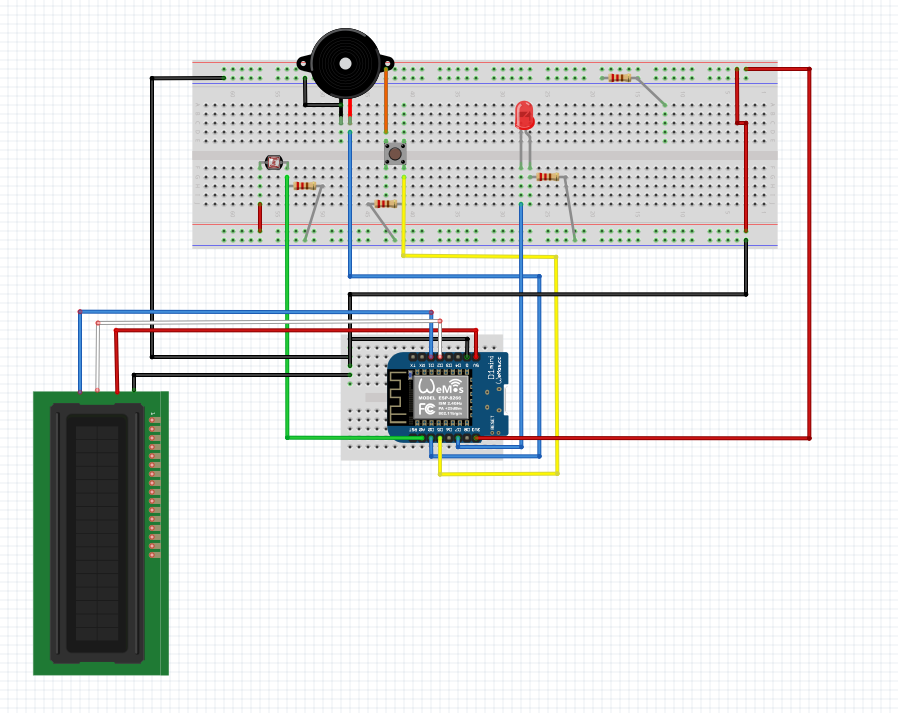
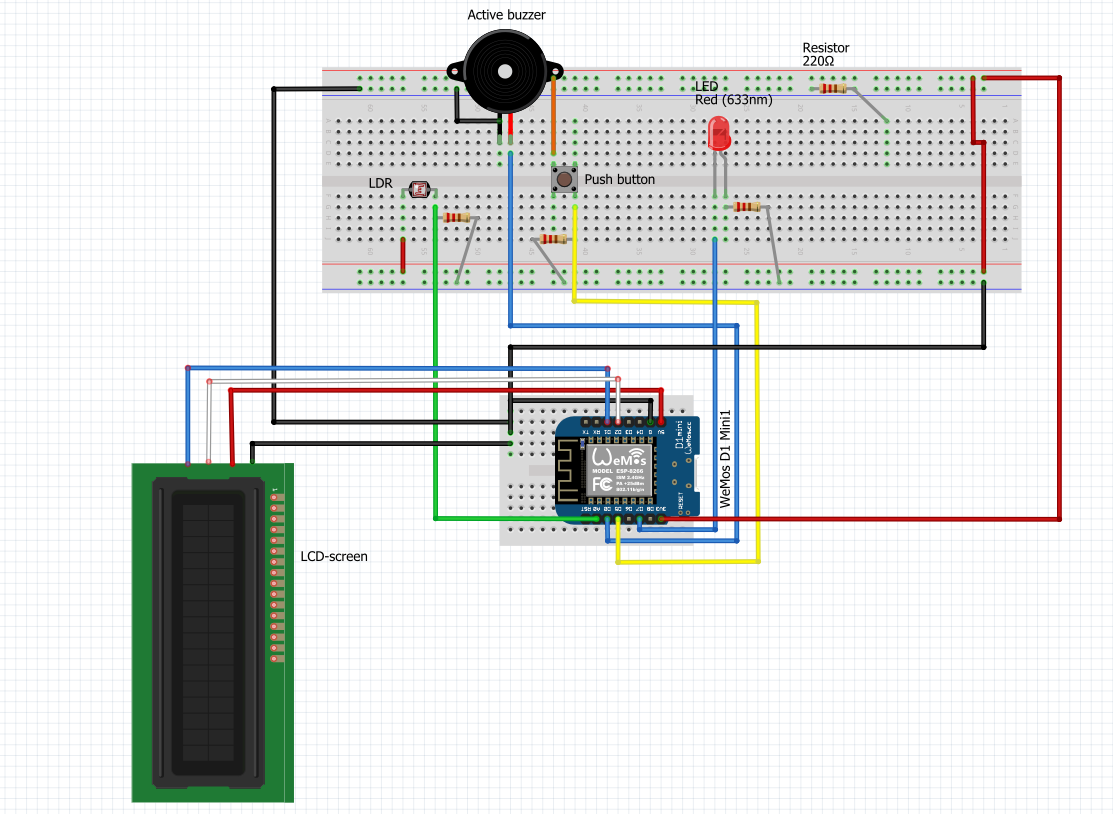
I changed my wiring diagram a little

Changed region(s): [[0.0312, 0.0, 0.9666, 0.9874]]

diff --git a/docs/embedded/technical_documentation.md b/docs/embedded/technical_documentation.md
@@ -2,6 +2,8 @@
 
 Your Wiring Diagram, Bill of Materials, ... everything about how you built your embedded device should be documented here.
 
+## BOM (Bill of Materials)
+
 Below you will find the Bill of Materials of my own project. This is made for others who want to recreate my project and 
 need references to all the materials I used. 
 
@@ -21,6 +23,8 @@ need references to all the materials I used.
  | LR1F220R     | NEOHM - TE CONNECTIVITY      | Resistor 220 ohm                                 | 4            | 0,05                  | 0,20                     | https://www.tinytronics.nl/nl/componenten/weerstanden/weerstanden/220%CF%89-weerstand-(led-voorschakelweerstand)                                                                                                                                                                                                                                                                                                                                                                                                                                                                                                                                                                                                |
  | EP-DW700CBE  | Samsung                      | Samsung USB-C naar USB kabel                     | 1            | 7,95                  | 7,95                     | https://www.mobilesupplies.nl/samsung-usb-c-naar-usb-kabel-extra-lang-1-5m-ep-dw700cbe.html                                                                                                                                                                                                                                                                                                                                                                                                                                                                                                                                                                                                                     |
 
+
+## Wiring diagram
 
 Below you will find the Wiring diagram of my project. This wiring diagram is created for others who want to recreate my 
 project and want to see a reference of how the parts are connected on the breadboard.
